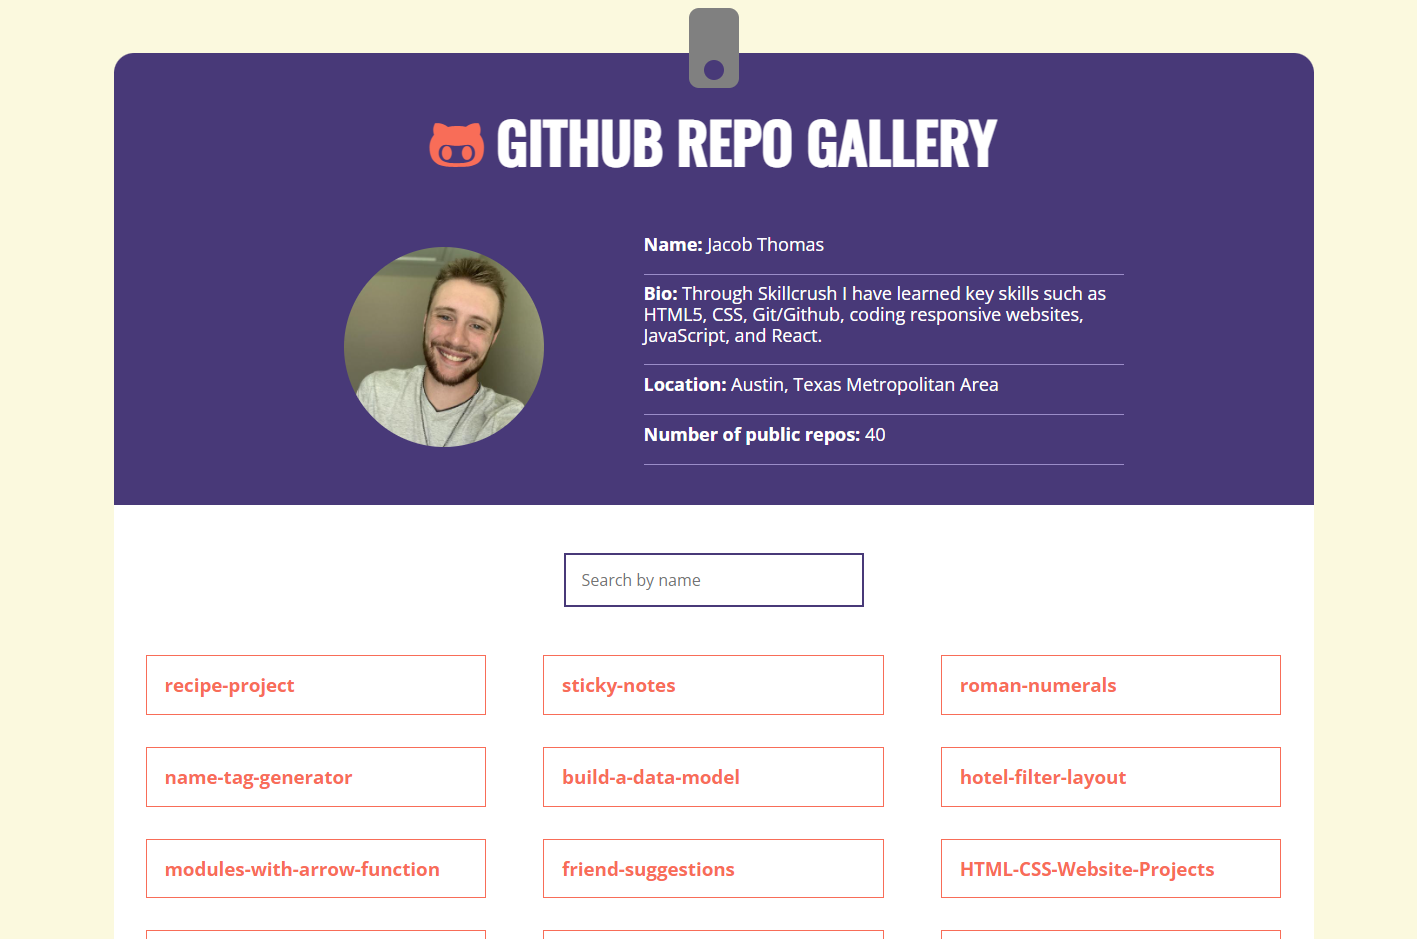
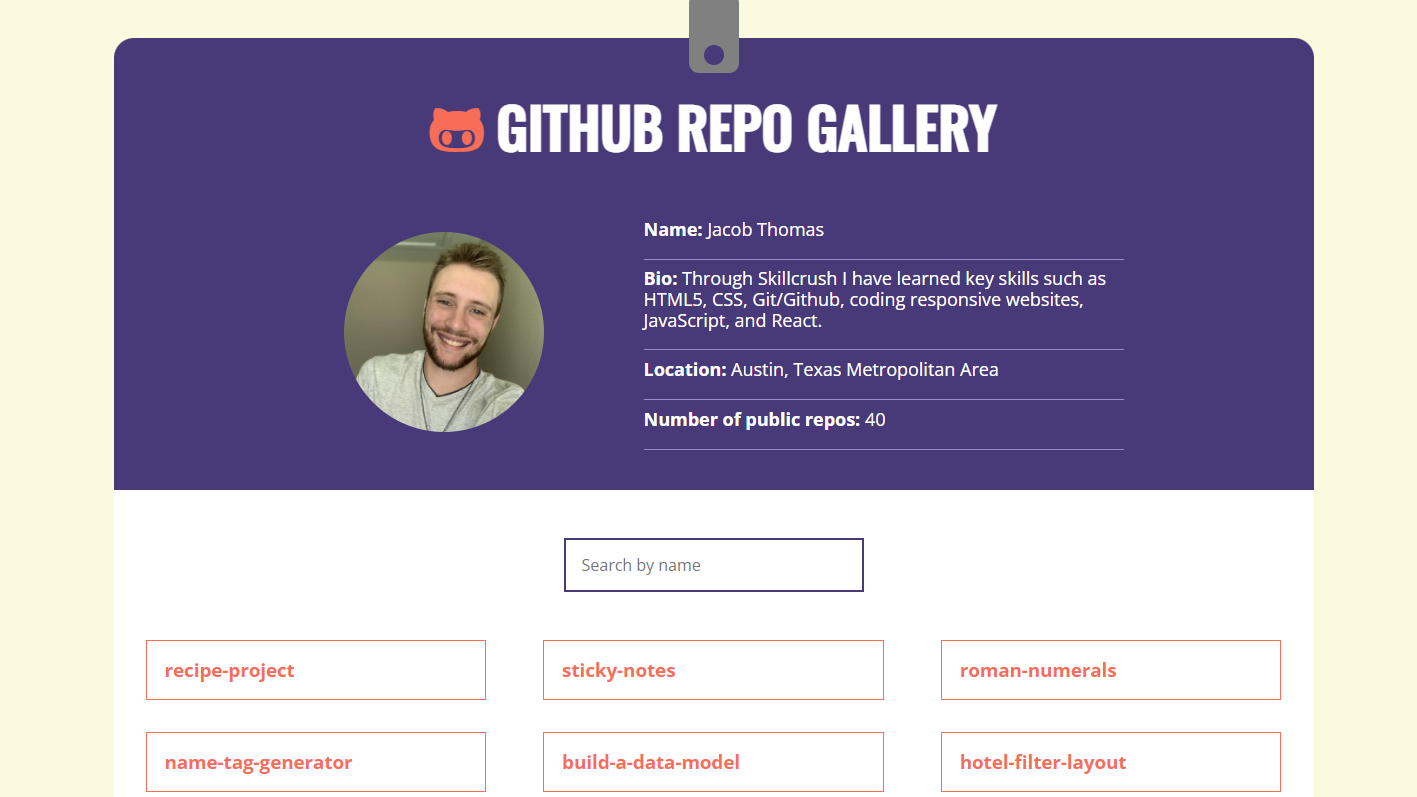
Completely finished the tablet layout design

diff --git a/css/main.css b/css/main.css
@@ -117,6 +117,7 @@ nav ul {
 nav ul li a {
   text-decoration: none;
   font-size: 14px;
+  text-transform: uppercase;
 }
 
 #themes {
@@ -126,6 +127,7 @@ nav ul li a {
   height: 30px;
   font-size: 14px;
   font-weight: bold;
+  text-transform: uppercase;
 }
 
 .intro {
@@ -197,6 +199,7 @@ img {
 
 #projects h2 {
   margin: 0 0 40px;
+  font-weight: 500;
 }
 
 #projects p {
@@ -339,10 +342,181 @@ button {
   margin: 0;
 }
 
+#copyright {
+  padding: 40px 0;
+}
+
 #copyright p {
   margin: 0;
-  padding: 40px 0;
   font-size: 14px;
+}
+
+/******************************** Base Styles for Tablet Devices ******************************/
+
+@media only screen and (min-width: 768px) and (max-width: 1199px) {
+  nav {
+    padding: 80px 50px;
+  }
+
+  nav ul li a {
+    font-size: 20px;
+  }
+
+  #themes {
+    font-size: 16px;
+  }
+
+  .intro h1 {
+    font-size: 40px;
+    padding: 0;
+  }
+
+  .intro h2 {
+    font-size: 24px;
+    padding: 80px 40px;
+  }
+
+  #projects {
+    display: flex;
+    justify-content: center;
+    align-items: flex-start;
+    flex-flow: row wrap;
+    padding: 120px 0 0;
+  }
+
+  #projects h1 {
+    padding-bottom: 80px;
+    margin: 0;
+    width: 100%;
+  }
+
+  .sticky-notes,
+  .speech-detection,
+  .repo-gallery,
+  .guess-word,
+  .unplugged {
+    display: flex;
+    justify-content: center;
+    align-items: flex-start;
+    flex-flow: row wrap;
+    width: 45%;
+  }
+
+  img a {
+    display: flex;
+    justify-content: center;
+    align-items: flex-start;
+  }
+
+  h2 {
+    font-size: 20px;
+  }
+
+  #projects p {
+    margin: 0 15px 30px;
+    text-align: left;
+  }
+
+  .description {
+    height: 150px;
+  }
+
+  .button {
+    padding: 0 30px 80px;
+  }
+
+  #skills h2 {
+    padding: 30px 0;
+  }
+
+  #skills ul {
+    display: flex;
+    justify-content: center;
+    align-items: center;
+    flex-flow: row wrap;
+    margin: 0 0 10px;
+  }
+
+  #skills ul li {
+    display: flex;
+    justify-content: center;
+    align-items: center;
+    flex-flow: row wrap;
+    width: 35%;
+    margin: 0 15px 20px;
+  }
+
+  #about {
+    padding: 60px 40px 120px;
+  }
+
+  #about img {
+    width: 50%;
+  }
+
+  #about h1 {
+    padding: 60px 0 80px;
+  }
+
+  #about h2 {
+    text-align: left;
+    padding: 0 30px 40px;
+  }
+
+  #contact {
+    display: flex;
+    justify-content: center;
+    align-items: center;
+    flex-flow: row wrap;
+  }
+
+  #contact h1 {
+    padding: 120px 0 80px;
+    width: 100%;
+  }
+
+  #hire h2 {
+    padding: 0 0 30px;
+  }
+
+  #follow h2 {
+    padding: 0 0 40px;
+  }
+
+  #location h2 {
+    padding: 0 0 40px;
+  }
+
+  #location p {
+    font-size: 18px;
+  }
+
+  #hire,
+  #follow,
+  #location {
+    display: flex;
+    justify-content: center;
+    align-items: center;
+    flex-flow: column;
+    width: 33%;
+  }
+
+  #follow p {
+    padding: 0 20px;
+  }
+
+  #copyright {
+    width: 100%;
+    padding: 80px 0;
+  }
+
+  #copyright p {
+    font-size: 16px;
+  }
+}
+
+/******************************** Base Styles for Tablet Devices ******************************/
+@media only screen and (min-width: 1200px) {
 }
 
 /* ==========================================================================

diff --git a/index.html b/index.html
@@ -65,11 +65,9 @@
             <img src="img/Sticky-Note-UI.png" />
           </a>
           <h2>Sticky Note UI</h2>
-          <p>
-            <strong>
-              This is a simple sticky note app with a way to filter through the
-              notes using React.
-            </strong>
+          <p class="description">
+            This is a simple sticky note app with a way to filter through the
+            notes using React. I also added a light and dark theme.
           </p>
           <p>
             <strong>Skills:</strong> React, ES6, JSX, Components <br />
@@ -90,13 +88,10 @@
             <img src="img/Speech-Detection.png" />
           </a>
           <h2>Speech Detection</h2>
-          <p>
-            <strong>
-              This is a website that detects speech and converts it into text
-              using JavaScript. However, it only works in certain web browsers
-              such as Chrome, Edge, and Safari. Also, I added a voice command to
-              open up LinkedIn.
-            </strong>
+          <p class="description">
+            This is a website that detects speech and converts it into text
+            using JavaScript. However it only works in Chrome, Edge, and Safari
+            web browsers.
           </p>
           <p>
             <strong>Skills:</strong> JavaScript, ES6, HTML, CSS
@@ -123,12 +118,10 @@
             <img src="img/GitHub-Repo-Gallery.png" />
           </a>
           <h2>GitHub Repo Gallery</h2>
-          <p>
-            <strong>
-              This is a gallery using an API from GitHub to display and describe
-              all of my public repos that are on GitHub. It also contains a
-              search bar to filter through the repos.
-            </strong>
+          <p class="description">
+            This is a gallery using an API from GitHub to display and describe
+            all of my public repos that are on GitHub. It also contains a search
+            bar to filter through the repos.
           </p>
           <p>
             <strong>Skills:</strong> JavaScript, HTML
@@ -155,11 +148,9 @@
             <img src="img/Guess-the-Word.png" />
           </a>
           <h2>Guess the Word</h2>
-          <p>
-            <strong>
-              This is a fun and interactive word guessing game where you have 8
-              tries to guess what the word is.
-            </strong>
+          <p class="description">
+            This is a fun and interactive word guessing game where you have 8
+            tries to guess what the word is.
           </p>
           <p>
             <strong>Skills:</strong> JavaScript, HTML
@@ -186,11 +177,9 @@
             <img src="img/Unplugged-Retreat.png" />
           </a>
           <h2>Unplugged Retreat</h2>
-          <p>
-            <strong>
-              This is a three-page responsive website I created from scratch
-              based on the design that was given.
-            </strong>
+          <p class="description">
+            This is a three-page responsive website I created from scratch based
+            on the design that was given.
           </p>
           <p>
             <strong>Skills:</strong> CSS, HTML, Flexbox, Media Queries
